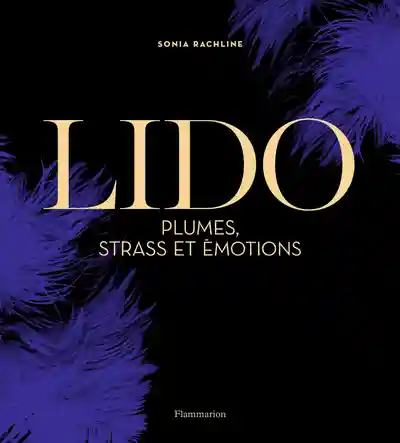
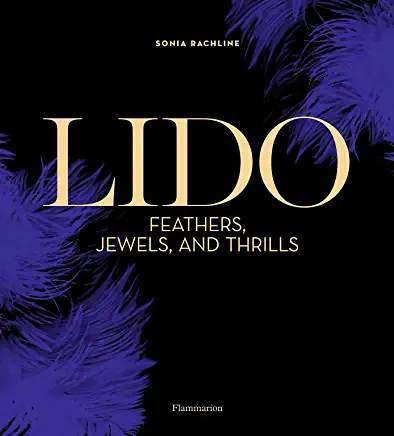
livres

diff --git a/src/componants/Livres.jsx b/src/componants/Livres.jsx
@@ -1,46 +1,88 @@
 import React from 'react';
 import book1 from '../assets/book1.jpeg';
+import book2 from '../assets/book2.webp';
+import book3 from '../assets/book3.webp';
+import book6 from '../assets/book6.webp';
+import book7 from '../assets/book7.jpg';
 
 
-const livres = [
-    {
-      name: 'Claude Brouet Journaliste de mode',
-      title: `Claude Brouet a consacré sa vie à la mode. Et la mode, elle, l'a depuis longtemps consacrée " grande Dame ", voire " papesse " de la profession. son parcours l'a conduite des salons Haute-Couture où travaillait sa mère, a directrice du style d'Hermès, puis à la direction mode des deux plus grands magazines féminins de l'après-guerre, et Marie-Claire.`,
-      date: 'Sep 22, 2022',
-      image: {book1},
-      detail: 'https://www.amazon.com/Claude-Brouet-Journaliste-Sonia-Rachline/dp/2841054160/ref=sr_1_1?qid=1672353546&refinements=p_27%3ASonia+Rachline&s=books&sr=1-1',
-      buy: '+1-202-555-0170',
-    },
-    {
-      name: 'Claude Brouet Journaliste de mode',
-      title: '',
-      date: 'Sep 22, 2022',
-      image: {book1},
-      detail: 'https://www.amazon.com/Claude-Brouet-Journaliste-Sonia-Rachline/dp/2841054160/ref=sr_1_1?qid=1672353546&refinements=p_27%3ASonia+Rachline&s=books&sr=1-1',
-      buy: '+1-202-555-0170',
-    },
-    
-  ]
-function Livres() {
-      
+function Livres(props) {
+    const livreItems = [
+        {
+          name: 'Claude Brouet Journaliste de mode',
+          title: `Claude Brouet a consacré sa vie à la mode. Et la mode, elle, l'a depuis longtemps consacrée " grande Dame ", voire " papesse " de la profession. son parcours l'a conduite des salons Haute-Couture où travaillait sa mère, a directrice du style d'Hermès, puis à la direction mode des deux plus grands magazines féminins de l'après-guerre, et Marie-Claire.`,
+          date: 'Sep 22, 2022',
+          image: book1,
+          detail: 'https://www.amazon.com/Claude-Brouet-Journaliste-Sonia-Rachline/dp/2841054160/ref=sr_1_1?qid=1672353546&refinements=p_27%3ASonia+Rachline&s=books&sr=1-1',
+          buy: 'https://www.amazon.com/Claude-Brouet-Journaliste-Sonia-Rachline/dp/2841054160/ref=sr_1_1?qid=1672353546&refinements=p_27%3ASonia+Rachline&s=books&sr=1-1',
+        },
+        {
+          name: `David Bowie n'est pas mort`,
+          title: `"Ma mère est morte. Mon père est mort. David Bowie est mort. Ce ne sont pas uniquement de mauvaises nouvelles."
+          À un an d'intervalle, Anne, Hélène et Émilie perdent leur mère, puis leur père. Entre les deux, David Bowie lui aussi disparaît. Dans l'enfance d'Hélène, la "sœur du milieu", le chanteur a eu une importance toute particulière, dont le souvenir soudain ressurgit...`,
+          date: 'November 9, 2017',
+          image: book7,
+          detail: 'https://www.amazon.com/David-Bowie-nest-pas-mort/dp/B0776XBRCJ/ref=sr_1_2?crid=HECIA20KERV&keywords=sonia+david&qid=1672377998&s=books&sprefix=sonia+david%2Cstripbooks%2C103&sr=1-2',
+          buy: 'https://www.amazon.com/David-Bowie-nest-pas-mort/dp/B0776XBRCJ/ref=sr_1_2?crid=HECIA20KERV&keywords=sonia+david&qid=1672377998&s=books&sprefix=sonia+david%2Cstripbooks%2C103&sr=1-2',
+        },
+        {
+          name: 'Lido: Feathers, Jewels, and Thrills',
+          title: `Jeremy Bauchet is back with Bluebells Forever Podcast to share about the release of the Book "LIDO: Feathers, Jewels, and Thrills" for the 75th anniversary of the Lido de Paris. The Lido has reopened with Jeremy promoted to Assistant Ballet Master alongside Jane Sansby. Jeremy is a wealth of knowledge of the Lido, Miss Bluebell, Donn Arden and Pierre Rambert. Congratulations Jeremy on your new adventures.`,
+          date: 'Oct 15, 2021',
+          image: book2,
+          detail: 'https://www.amazon.com/Claude-Brouet-Journaliste-Sonia-Rachline/dp/2841054160/ref=sr_1_1?qid=1672353546&refinements=p_27%3ASonia+Rachline&s=books&sr=1-1',
+          buy: 'https://www.amazon.com/Lido-Feathers-Thrills-Sonia-Rachline/dp/2080255193/ref=sr_1_3?qid=1672353546&refinements=p_27%3ASonia+Rachline&s=books&sr=1-3',
+        },
+        {
+          name: 'Karl Lagerfeld de A à Z',
+          title: `C comme Chanel, E comme éventail, P comme publicité, Y comme Yves Saint Laurent... Sous la forme ludique d'un abécédaire, cet ouvrage brosse le portrait du créateur de génie qu'était Karl Lagerfeld. Virtuose de l'allure et du vêtement, maître des métamorphoses, il a inspiré toute une génération de couturiers. Véritable esthète, il fut aussi photographe, éditeur, collectionneur d'art et a marqué son époque par sa singularité, sa force de travail et son franc-parler incomparables...`,
+          date: 'Sep 26, 2019',
+          image: book3,
+          detail: 'https://www.babelio.com/livres/David-Karl-Lagerfeld-de-A-a-Z/1167627',
+          buy: 'https://www.amazon.com/Karl-Lagerfeld-%C3%A0-Z/dp/2742460721/ref=sr_1_6?qid=1672353546&refinements=p_27%3ASonia+Rachline&s=books&sr=1-6',
+        },
+        {
+          name: 'Vogue à la Mer',
+          title: `A l'occasion du 4ème festival international de la photographie de mer organisé à Vannes du 18 avril au 18 mai 2008, Vogue plonge dans ses archives pour donner à voir les clichés des plus grands photographes de mode inspirés par le bord de mer pour le magazine : George Hoyningen-Huene, Peter Lindbergh, Henry Clarke,
+          Helmut Newton, Bob Richardson, Franco Rubartelli, David Sims, Guy Bourdin, Mario Testino, Mario Sorrenti, Ines van Lamsweerde & Vinoodh Matadin...`,
+          date: '10 avril 2008',
+          image: book6,
+          detail: 'https://www.amazon.com/Vogue-%C3%83-Mer-COLLECTIF/dp/2841149412',
+          buy: 'https://www.amazon.fr/Vogue-%C3%A0-Mer-Collectif/dp/2841149412',
+        },
+        
+      ];
   return (
     <section id="livres" className='p-6 '>
-        <ul role="list" className="grid grid-cols-1 gap-6 sm:grid-cols-2 lg:grid-cols-3">
-        { livres.map((livre) => (
-         <li key={livre.name} className="col-span-1 divide-y divide-gray-200 rounded-lg bg-white shadow">
-            <div className="flex w-full items-center justify-between space-x-6 p-6">
-                <div className="">
-                    <p className="text-red ">{livre.name}</p>
-                    <p className="">{livre.title}</p>
-                    <p className="">{livre.date}</p>
-                    <img alt=""className="">{livre.image}</img>
-                    <div className="">
-                        <a href="#" className="">{livre.detail}</a>
-                        <a href="#" className="">{livre.buy}</a>
+        <div className="">
+
+        </div>
+        <ul className="grid gap-6 md:grid-cols-2 lg:grid-cols-3">
+        {livreItems.map((item) => (
+            <li key={item.name} className="text-slate-50">
+                <div className="flex flex-col justify-between shadow-lg m-3 border rounded-lg">
+                    <div className="p-8 space-y-3">
+                        <p className="text-3xl">{item.name}</p>
+                        <p className="text-zinc-300 italic text-right">{item.date}</p>
+                        <p className="">{item.title}</p>
+                        <div className="flex justify-around pt-5">
+                            <a href={item.detail} 
+                                rel='noreferrer' target="_blank"
+                                className="">
+                            <p className="text-slate-50 border px-6 py-2 rounded-full">Plus Info</p>
+                            </a>
+                            <a href={item.buy} 
+                                rel='noreferrer' target="_blank"
+                                className="">
+                            <p className="text-slate-50 border px-6 py-2 rounded-full">Acheter</p>
+                            </a>
+                        </div>
                     </div>
+                    <img src={item.image} alt="" className='rounded-lg h-86' />
                 </div>
-            </div>
-         </li>
+                
+            </li>
+         
         ))}
         </ul>
     </section>

diff --git a/src/componants/NavBar.jsx b/src/componants/NavBar.jsx
@@ -10,7 +10,7 @@ function NavBar() {
         <div className="">
             <img className='h-10 ' src={Logo} alt="Sonia Rachline" />
         </div>
-        <div className="hidden md:flex text-2xl space-x-3">
+        <div className="hidden md:flex text-xl space-x-3 text-slate-50">
             <p className="">À Propos</p>
             <p className="">Articles</p>
             <p className="">Livres</p>
